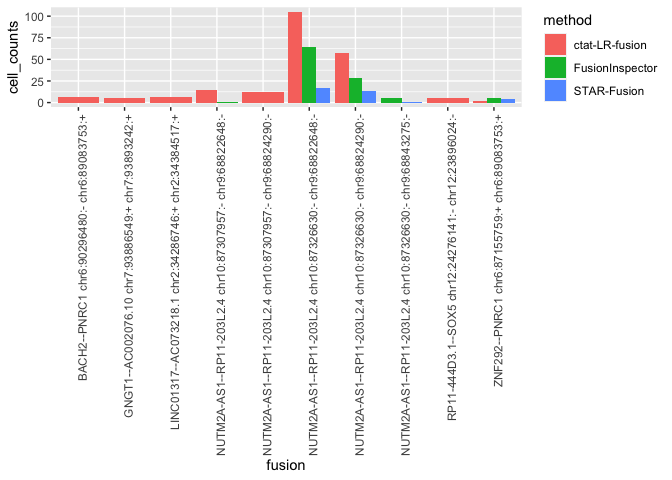
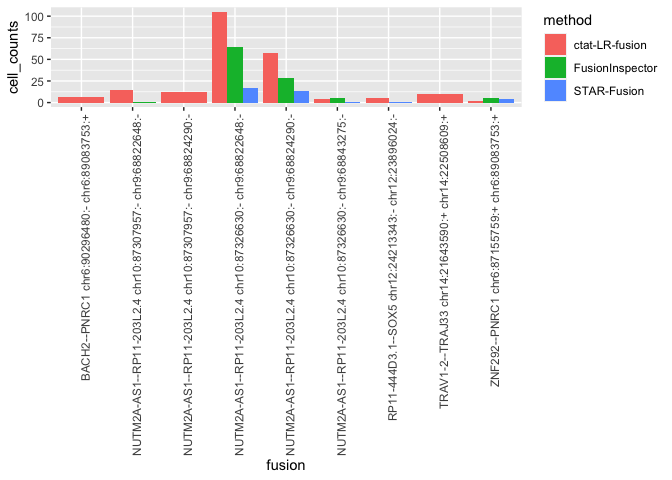
reknitted

diff --git a/4.SingleCellFusions/4a.sc_Melanoma/M132TS_analysis.md b/4.SingleCellFusions/4a.sc_Melanoma/M132TS_analysis.md
@@ -118,21 +118,20 @@ Tum_cell_counts = left_join(Tum_cell_counts, fusion_annots)
 Tum_cell_counts %>% filter(tot_cells_w_fusion >= MIN_CELLS)
 ```
 
-    ## # A tibble: 12 × 4
+    ## # A tibble: 11 × 4
     ##    FusionName               tot_cells_w_fusion frac_tot_cells annots            
     ##    <chr>                                 <int>          <dbl> <chr>             
     ##  1 NUTM2A-AS1--RP11-203L2.4                268       0.0387   INTERCHROMOSOMAL[…
-    ##  2 ZNF292--PNRC1                            12       0.00173  INTRACHROMOSOMAL[…
-    ##  3 RP11-444D3.1--SOX5                       10       0.00144  [SOX5:Oncogene];I…
-    ##  4 BACH2--PNRC1                              9       0.00130  [BACH2:Oncogene];…
-    ##  5 RP11-855A2.2--BPTF                        8       0.00115  <NA>              
+    ##  2 TRAV1-2--TRAJ33                          20       0.00289  <NA>              
+    ##  3 ZNF292--PNRC1                            12       0.00173  INTRACHROMOSOMAL[…
+    ##  4 RP11-444D3.1--SOX5                       10       0.00144  [SOX5:Oncogene];I…
+    ##  5 BACH2--PNRC1                              9       0.00130  [BACH2:Oncogene];…
     ##  6 SRSF7--CXCR4                              8       0.00115  INTRACHROMOSOMAL[…
-    ##  7 LINC01317--AC073218.1                     7       0.00101  <NA>              
-    ##  8 LINC01340--RP11-455B3.1                   7       0.00101  INTRACHROMOSOMAL[…
-    ##  9 GNGT1--AC002076.10                        6       0.000866 <NA>              
-    ## 10 RP1-34H18.1--NAV3                         6       0.000866 INTRACHROMOSOMAL[…
-    ## 11 DPH6-AS1--RP11-684B21.1                   5       0.000721 INTRACHROMOSOMAL[…
-    ## 12 RP11-14D22.2--PRICKLE2                    5       0.000721 INTRACHROMOSOMAL[…
+    ##  7 LINC01340--RP11-455B3.1                   7       0.00101  INTRACHROMOSOMAL[…
+    ##  8 RP1-34H18.1--NAV3                         6       0.000866 INTRACHROMOSOMAL[…
+    ##  9 DPH6-AS1--RP11-684B21.1                   5       0.000721 INTRACHROMOSOMAL[…
+    ## 10 LINC01317--AC073218.1                     5       0.000721 <NA>              
+    ## 11 RP11-14D22.2--PRICKLE2                    5       0.000721 INTRACHROMOSOMAL[…
 
 ``` r
 fusions_min_cell_counts = Tum_cell_counts %>% filter(tot_cells_w_fusion >= MIN_CELLS) 
@@ -140,21 +139,20 @@ fusions_min_cell_counts = Tum_cell_counts %>% filter(tot_cells_w_fusion >= MIN_C
 fusions_min_cell_counts
 ```
 
-    ## # A tibble: 12 × 4
+    ## # A tibble: 11 × 4
     ##    FusionName               tot_cells_w_fusion frac_tot_cells annots            
     ##    <chr>                                 <int>          <dbl> <chr>             
     ##  1 NUTM2A-AS1--RP11-203L2.4                268       0.0387   INTERCHROMOSOMAL[…
-    ##  2 ZNF292--PNRC1                            12       0.00173  INTRACHROMOSOMAL[…
-    ##  3 RP11-444D3.1--SOX5                       10       0.00144  [SOX5:Oncogene];I…
-    ##  4 BACH2--PNRC1                              9       0.00130  [BACH2:Oncogene];…
-    ##  5 RP11-855A2.2--BPTF                        8       0.00115  <NA>              
+    ##  2 TRAV1-2--TRAJ33                          20       0.00289  <NA>              
+    ##  3 ZNF292--PNRC1                            12       0.00173  INTRACHROMOSOMAL[…
+    ##  4 RP11-444D3.1--SOX5                       10       0.00144  [SOX5:Oncogene];I…
+    ##  5 BACH2--PNRC1                              9       0.00130  [BACH2:Oncogene];…
     ##  6 SRSF7--CXCR4                              8       0.00115  INTRACHROMOSOMAL[…
-    ##  7 LINC01317--AC073218.1                     7       0.00101  <NA>              
-    ##  8 LINC01340--RP11-455B3.1                   7       0.00101  INTRACHROMOSOMAL[…
-    ##  9 GNGT1--AC002076.10                        6       0.000866 <NA>              
-    ## 10 RP1-34H18.1--NAV3                         6       0.000866 INTRACHROMOSOMAL[…
-    ## 11 DPH6-AS1--RP11-684B21.1                   5       0.000721 INTRACHROMOSOMAL[…
-    ## 12 RP11-14D22.2--PRICKLE2                    5       0.000721 INTRACHROMOSOMAL[…
+    ##  7 LINC01340--RP11-455B3.1                   7       0.00101  INTRACHROMOSOMAL[…
+    ##  8 RP1-34H18.1--NAV3                         6       0.000866 INTRACHROMOSOMAL[…
+    ##  9 DPH6-AS1--RP11-684B21.1                   5       0.000721 INTRACHROMOSOMAL[…
+    ## 10 LINC01317--AC073218.1                     5       0.000721 <NA>              
+    ## 11 RP11-14D22.2--PRICKLE2                    5       0.000721 INTRACHROMOSOMAL[…
 
 ``` r
 # examine distribution of fusion calls according to cell types
@@ -172,10 +170,10 @@ Tum_fusion_frac_cell_types %>% head()
     ##   FusionName               celltype_final tot_cells_w_fusion frac_fusion_cells
     ##   <chr>                    <chr>                       <int>             <dbl>
     ## 1 NUTM2A-AS1--RP11-203L2.4 tumor                         265             0.989
-    ## 2 ZNF292--PNRC1            normal                         12             1    
-    ## 3 BACH2--PNRC1             normal                          9             1    
-    ## 4 SRSF7--CXCR4             normal                          8             1    
-    ## 5 LINC01317--AC073218.1    tumor                           7             1    
+    ## 2 TRAV1-2--TRAJ33          normal                         20             1    
+    ## 3 ZNF292--PNRC1            normal                         12             1    
+    ## 4 BACH2--PNRC1             normal                          9             1    
+    ## 5 SRSF7--CXCR4             normal                          8             1    
     ## 6 LINC01340--RP11-455B3.1  tumor                           7             1
 
 ``` r
@@ -184,8 +182,8 @@ Tum_data %>% select(method) %>% unique()
 
     ##              method
     ## 1    ctat-LR-fusion
-    ## 73      STAR-Fusion
-    ## 144 FusionInspector
+    ## 72      STAR-Fusion
+    ## 143 FusionInspector
 
 ``` r
 starF_fusions = Tum_data %>% filter(method=="STAR-Fusion")
@@ -287,9 +285,9 @@ fusion_frac_cell_types %>% head()
     ##   <chr>                     <int>              <int>             <dbl>
     ## 1 NUTM2A-AS1--RP11-203L2.4      4                221             0.825
     ## 2 NUTM2A-AS1--RP11-203L2.4      7                 44             0.164
-    ## 3 RP11-444D3.1--SOX5            4                  7             0.7  
-    ## 4 BACH2--PNRC1                  0                  6             0.667
-    ## 5 LINC01317--AC073218.1         4                  6             0.857
+    ## 3 TRAV1-2--TRAJ33               8                 18             0.9  
+    ## 4 RP11-444D3.1--SOX5            4                  7             0.7  
+    ## 5 BACH2--PNRC1                  0                  6             0.667
     ## 6 LINC01340--RP11-455B3.1       4                  6             0.857
 
 ``` r
@@ -301,17 +299,16 @@ fusions_of_interest = Tum_fusion_frac_cell_types %>%
 fusions_of_interest
 ```
 
-    ## # A tibble: 7 × 4
-    ## # Groups:   FusionName [7]
+    ## # A tibble: 6 × 4
+    ## # Groups:   FusionName [6]
     ##   FusionName               celltype_final tot_cells_w_fusion frac_fusion_cells
     ##   <chr>                    <chr>                       <int>             <dbl>
     ## 1 NUTM2A-AS1--RP11-203L2.4 tumor                         265             0.989
-    ## 2 LINC01317--AC073218.1    tumor                           7             1    
-    ## 3 LINC01340--RP11-455B3.1  tumor                           7             1    
-    ## 4 GNGT1--AC002076.10       tumor                           6             1    
-    ## 5 RP1-34H18.1--NAV3        tumor                           6             1    
-    ## 6 DPH6-AS1--RP11-684B21.1  tumor                           5             1    
-    ## 7 RP11-14D22.2--PRICKLE2   tumor                           5             1
+    ## 2 LINC01340--RP11-455B3.1  tumor                           7             1    
+    ## 3 RP1-34H18.1--NAV3        tumor                           6             1    
+    ## 4 DPH6-AS1--RP11-684B21.1  tumor                           5             1    
+    ## 5 LINC01317--AC073218.1    tumor                           5             1    
+    ## 6 RP11-14D22.2--PRICKLE2   tumor                           5             1
 
 ``` r
 fusions_of_interest = left_join(fusions_of_interest,
@@ -324,17 +321,16 @@ fusions_of_interest = left_join(fusions_of_interest,
 fusions_of_interest
 ```
 
-    ## # A tibble: 7 × 5
-    ## # Groups:   FusionName [7]
+    ## # A tibble: 6 × 5
+    ## # Groups:   FusionName [6]
     ##   FusionName          celltype_final tot_cells_w_fusion frac_fusion_cells annots
     ##   <chr>               <chr>                       <int>             <dbl> <chr> 
     ## 1 NUTM2A-AS1--RP11-2… tumor                         265             0.989 INTER…
-    ## 2 LINC01317--AC07321… tumor                           7             1     <NA>  
-    ## 3 LINC01340--RP11-45… tumor                           7             1     INTRA…
-    ## 4 GNGT1--AC002076.10  tumor                           6             1     <NA>  
-    ## 5 RP1-34H18.1--NAV3   tumor                           6             1     INTRA…
-    ## 6 DPH6-AS1--RP11-684… tumor                           5             1     INTRA…
-    ## 7 RP11-14D22.2--PRIC… tumor                           5             1     INTRA…
+    ## 2 LINC01340--RP11-45… tumor                           7             1     INTRA…
+    ## 3 RP1-34H18.1--NAV3   tumor                           6             1     INTRA…
+    ## 4 DPH6-AS1--RP11-684… tumor                           5             1     INTRA…
+    ## 5 LINC01317--AC07321… tumor                           5             1     <NA>  
+    ## 6 RP11-14D22.2--PRIC… tumor                           5             1     INTRA…
 
 NUTM2A-AS1–RP11-203L2.4 is the only relevant inter-chromosomal.
 
@@ -492,14 +488,13 @@ Tum_cell_counts_by_method %>% filter(FusionName %in% fusions_of_interest$FusionN
     ## 5  NUTM2A-AS1--RP11-203L2.4 chr10:87307957:- chr9:68822648:-      4
     ## 6  NUTM2A-AS1--RP11-203L2.4 chr10:87307957:- chr9:68824290:-      4
     ## 7  NUTM2A-AS1--RP11-203L2.4 chr10:87307957:- chr9:68822648:-      7
-    ## 8  NUTM2A-AS1--RP11-203L2.4 chr10:87326630:- chr9:68825399:-      4
+    ## 8  NUTM2A-AS1--RP11-203L2.4 chr10:87326630:- chr9:68843275:-      4
     ## 9  NUTM2A-AS1--RP11-203L2.4 chr10:87307957:- chr9:68824290:-      7
-    ## 10 NUTM2A-AS1--RP11-203L2.4 chr10:87326630:- chr9:68825399:-      7
+    ## 10 NUTM2A-AS1--RP11-203L2.4 chr10:87326630:- chr9:68843275:-      7
     ## 11 NUTM2A-AS1--RP11-203L2.4 chr10:87326630:- chr9:68822648:-      1
     ## 12 NUTM2A-AS1--RP11-203L2.4 chr10:87326630:- chr9:68822648:-      2
     ## 13 NUTM2A-AS1--RP11-203L2.4 chr10:87326630:- chr9:68822648:-      3
     ## 14 NUTM2A-AS1--RP11-203L2.4 chr10:87326630:- chr9:68822673:-      4
-    ## 15 NUTM2A-AS1--RP11-203L2.4 chr10:87326630:- chr9:68843275:-      4
     ##    ctat-LR-fusion FusionInspector STAR-Fusion
     ## 1             105              64          17
     ## 2              57              29          13
@@ -508,14 +503,13 @@ Tum_cell_counts_by_method %>% filter(FusionName %in% fusions_of_interest$FusionN
     ## 5              14               1          NA
     ## 6              12              NA          NA
     ## 7               4               1          NA
-    ## 8               4              NA          NA
+    ## 8               4               5           1
     ## 9               2              NA          NA
     ## 10              2              NA          NA
     ## 11             NA               1          NA
     ## 12             NA               1           1
     ## 13             NA               1          NA
     ## 14             NA              NA           1
-    ## 15             NA               5           1
 
 ``` r
 M132TS_fusions_of_interest_counts = Tum_data %>% filter(FusionName %in% fusions_of_interest$FusionName) %>% 
@@ -697,21 +691,20 @@ left_join(Tum_data %>% filter(FusionName %in% fusions_min_cell_counts$FusionName
     fusion_annots, by='FusionName')
 ```
 
-    ## # A tibble: 12 × 6
+    ## # A tibble: 11 × 6
     ##    FusionName    leiden fusion_cell_counts_p…¹ frac_fusion_cells tumor_or_normal
     ##    <chr>          <int>                  <int>             <dbl> <lgl>          
-    ##  1 NUTM2A-AS1--…      4                    221           0.630   TRUE           
-    ##  2 RP11-444D3.1…      4                      7           0.0199  TRUE           
-    ##  3 BACH2--PNRC1       0                      6           0.0171  FALSE          
-    ##  4 LINC01317--A…      4                      6           0.0171  TRUE           
-    ##  5 LINC01340--R…      4                      6           0.0171  TRUE           
-    ##  6 GNGT1--AC002…      7                      5           0.0142  TRUE           
-    ##  7 RP11-14D22.2…      4                      5           0.0142  TRUE           
-    ##  8 ZNF292--PNRC1      0                      5           0.0142  FALSE          
-    ##  9 RP1-34H18.1-…      4                      4           0.0114  TRUE           
-    ## 10 RP11-855A2.2…      4                      4           0.0114  TRUE           
-    ## 11 DPH6-AS1--RP…      4                      3           0.00855 TRUE           
-    ## 12 SRSF7--CXCR4       0                      2           0.00570 FALSE          
+    ##  1 NUTM2A-AS1--…      4                    221           0.623   TRUE           
+    ##  2 TRAV1-2--TRA…      8                     18           0.0507  FALSE          
+    ##  3 RP11-444D3.1…      4                      7           0.0197  TRUE           
+    ##  4 BACH2--PNRC1       0                      6           0.0169  FALSE          
+    ##  5 LINC01340--R…      4                      6           0.0169  TRUE           
+    ##  6 RP11-14D22.2…      4                      5           0.0141  TRUE           
+    ##  7 ZNF292--PNRC1      0                      5           0.0141  FALSE          
+    ##  8 LINC01317--A…      4                      4           0.0113  TRUE           
+    ##  9 RP1-34H18.1-…      4                      4           0.0113  TRUE           
+    ## 10 DPH6-AS1--RP…      4                      3           0.00845 TRUE           
+    ## 11 SRSF7--CXCR4       0                      2           0.00563 FALSE          
     ## # ℹ abbreviated name: ¹fusion_cell_counts_per_cluster
     ## # ℹ 1 more variable: annots <chr>
 
@@ -736,7 +729,7 @@ report_on_fusion("RP11-444D3.1--SOX5")
 ```
 
     ##           FusionName   LeftBreakpoint  RightBreakpoint leiden ctat-LR-fusion
-    ## 1 RP11-444D3.1--SOX5 chr12:24276141:- chr12:23896024:-      4              5
+    ## 1 RP11-444D3.1--SOX5 chr12:24213343:- chr12:23896024:-      4              5
     ## 2 RP11-444D3.1--SOX5 chr12:24277216:- chr12:23896024:-      4              1
     ## 3 RP11-444D3.1--SOX5 chr12:24213343:- chr12:23896024:-      2             NA
     ## 4 RP11-444D3.1--SOX5 chr12:24277216:- chr12:23896024:-      0             NA
@@ -800,13 +793,11 @@ report_on_fusion("RP1-34H18.1--NAV3")
 ```
 
     ##          FusionName   LeftBreakpoint  RightBreakpoint leiden ctat-LR-fusion
-    ## 1 RP1-34H18.1--NAV3 chr12:77326622:+ chr12:77940319:+      4              4
-    ## 2 RP1-34H18.1--NAV3 chr12:77326622:+ chr12:77940319:+      7              1
-    ## 3 RP1-34H18.1--NAV3 chr12:77572266:+ chr12:77940319:+      7             NA
+    ## 1 RP1-34H18.1--NAV3 chr12:77572266:+ chr12:77940319:+      4              4
+    ## 2 RP1-34H18.1--NAV3 chr12:77572266:+ chr12:77940319:+      7              1
     ##   FusionInspector STAR-Fusion
     ## 1              NA          NA
-    ## 2              NA          NA
-    ## 3              NA           1
+    ## 2              NA           1
     ## # A tibble: 1 × 5
     ##   FusionName        tot_cells_w_fusion frac_tot_cells annots               type 
     ##   <chr>                          <int>          <dbl> <chr>                <chr>
